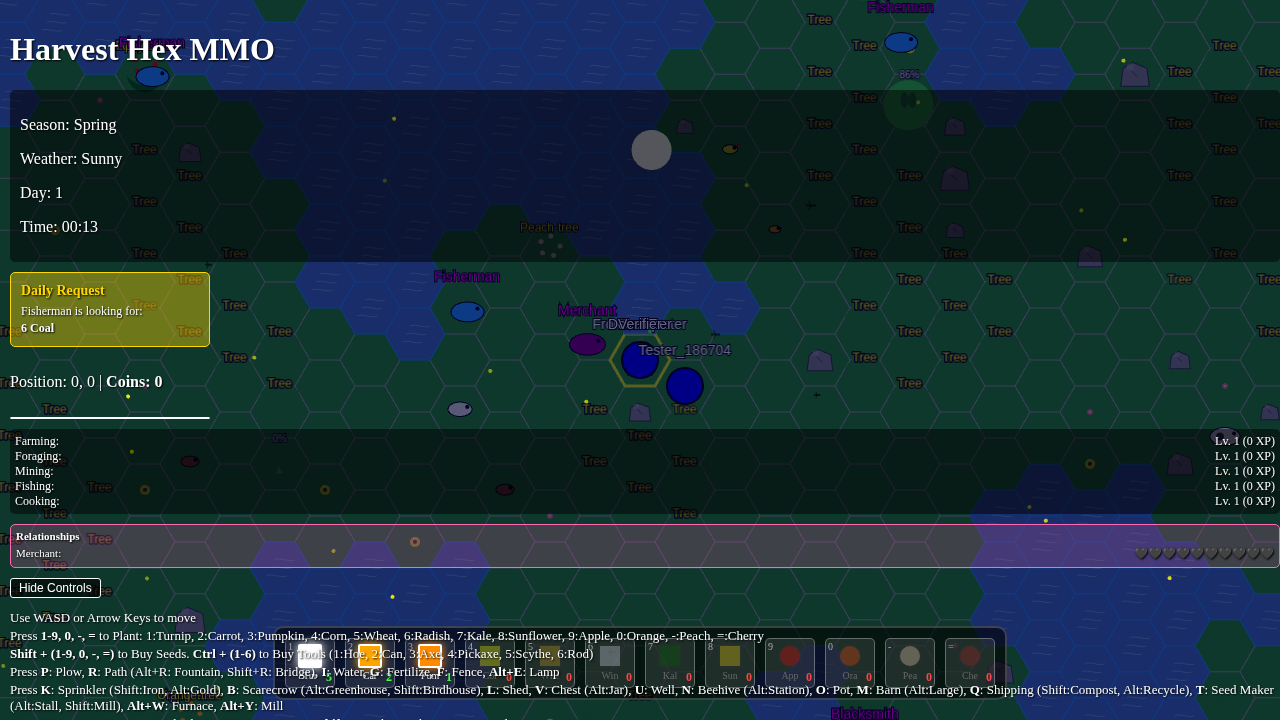
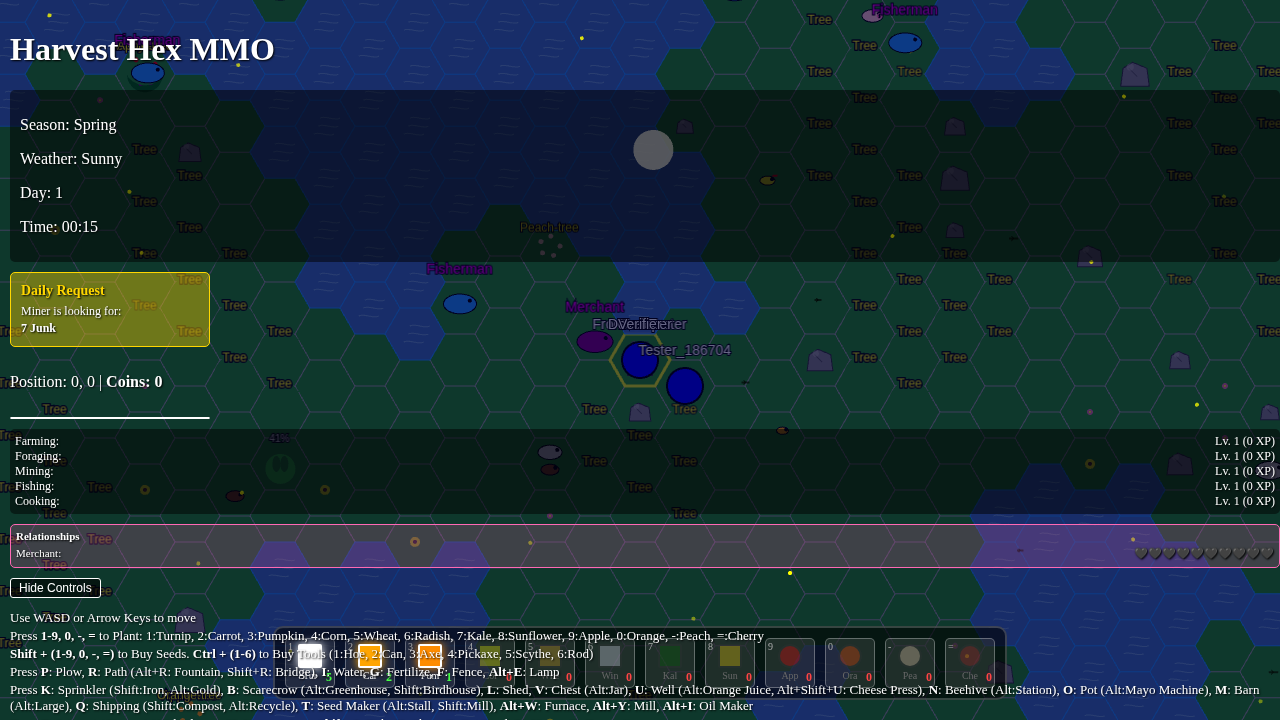
Implement Artisan Machines and game balance fixes (#70)

diff --git a/server/src/index.ts b/server/src/index.ts
@@ -510,12 +510,12 @@ io.on('connection', (socket) => {
         const entities = world.getEntitiesAt(pos.q, pos.r);
         const plant = entities.find(e => e.type === 'plant') as Plant | undefined;
         if (plant) {
-          if (plant.species === 'apple-tree' || plant.species === 'orange-tree' || plant.species === 'peach-tree' || plant.species === 'cherry-tree') {
+          if (plant.species === 'tree' || plant.species === 'apple-tree' || plant.species === 'orange-tree' || plant.species === 'peach-tree' || plant.species === 'cherry-tree') {
               if (!hasScythe) notify(socket.id, `Use 'E' to gather fruit from mature trees. Use an axe to cut them down.`, 'info');
               return;
           }
-          if (plant.species === 'berry-bush') {
-            if (!hasScythe) notify(socket.id, "Use 'E' to gather berries from mature bushes. Use an axe to clear it.", 'info');
+          if (plant.species === 'berry-bush' || plant.species === 'wood-stick') {
+            if (!hasScythe && plant.species === 'berry-bush') notify(socket.id, "Use 'E' to gather berries from mature bushes. Use an axe to clear it.", 'info');
             return;
           }
 
@@ -1266,6 +1266,82 @@ io.on('connection', (socket) => {
           return;
       }
 
+      if (building && building.species === 'oil-maker') {
+          if ((player.inventory['truffle'] || 0) > 0) {
+              player.inventory['truffle']--;
+              player.inventory['oil'] = (player.inventory['oil'] || 0) + 1;
+              socket.emit('entityUpdate', player);
+              notify(socket.id, "Processed truffle into oil!", 'success');
+          } else {
+              notify(socket.id, "You need a truffle to make oil!", 'info');
+          }
+          return;
+      }
+
+      if (building && building.species === 'cheese-press') {
+          const milk = player.inventory['milk'] || 0;
+          const largeMilk = player.inventory['large-milk'] || 0;
+          const goatMilk = player.inventory['goat-milk'] || 0;
+          const largeGoatMilk = player.inventory['large-goat-milk'] || 0;
+
+          if (largeGoatMilk > 0) {
+              player.inventory['large-goat-milk']--;
+              player.inventory['goat-cheese'] = (player.inventory['goat-cheese'] || 0) + 2;
+              socket.emit('entityUpdate', player);
+              notify(socket.id, "Pressed large goat milk into 2 goat cheese!", 'success');
+          } else if (goatMilk > 0) {
+              player.inventory['goat-milk']--;
+              player.inventory['goat-cheese'] = (player.inventory['goat-cheese'] || 0) + 1;
+              socket.emit('entityUpdate', player);
+              notify(socket.id, "Pressed goat milk into goat cheese!", 'success');
+          } else if (largeMilk > 0) {
+              player.inventory['large-milk']--;
+              player.inventory['cheese'] = (player.inventory['cheese'] || 0) + 2;
+              socket.emit('entityUpdate', player);
+              notify(socket.id, "Pressed large milk into 2 cheese!", 'success');
+          } else if (milk > 0) {
+              player.inventory['milk']--;
+              player.inventory['cheese'] = (player.inventory['cheese'] || 0) + 1;
+              socket.emit('entityUpdate', player);
+              notify(socket.id, "Pressed milk into cheese!", 'success');
+          } else {
+              notify(socket.id, "You need milk or goat milk to make cheese!", 'info');
+          }
+          return;
+      }
+
+      if (building && building.species === 'mayonnaise-machine') {
+          const egg = player.inventory['egg'] || 0;
+          const goldenEgg = player.inventory['golden-egg'] || 0;
+          const duckEgg = player.inventory['duck-egg'] || 0;
+          const goldenDuckEgg = player.inventory['golden-duck-egg'] || 0;
+
+          if (goldenDuckEgg > 0) {
+              player.inventory['golden-duck-egg']--;
+              player.inventory['duck-mayonnaise'] = (player.inventory['duck-mayonnaise'] || 0) + 2;
+              socket.emit('entityUpdate', player);
+              notify(socket.id, "Processed golden duck egg into 2 duck mayonnaise!", 'success');
+          } else if (duckEgg > 0) {
+              player.inventory['duck-egg']--;
+              player.inventory['duck-mayonnaise'] = (player.inventory['duck-mayonnaise'] || 0) + 1;
+              socket.emit('entityUpdate', player);
+              notify(socket.id, "Processed duck egg into duck mayonnaise!", 'success');
+          } else if (goldenEgg > 0) {
+              player.inventory['golden-egg']--;
+              player.inventory['mayonnaise'] = (player.inventory['mayonnaise'] || 0) + 2;
+              socket.emit('entityUpdate', player);
+              notify(socket.id, "Processed golden egg into 2 mayonnaise!", 'success');
+          } else if (egg > 0) {
+              player.inventory['egg']--;
+              player.inventory['mayonnaise'] = (player.inventory['mayonnaise'] || 0) + 1;
+              socket.emit('entityUpdate', player);
+              notify(socket.id, "Processed egg into mayonnaise!", 'success');
+          } else {
+              notify(socket.id, "You need eggs to make mayonnaise!", 'info');
+          }
+          return;
+      }
+
       if (building && building.species === 'stall') {
           const isOwner = building.ownerId === player.id;
           const buildingInv = building.inventory || {};
@@ -1416,7 +1492,9 @@ io.on('connection', (socket) => {
 
       if (building && building.species === 'shipping-bin') {
           let earned = 0;
+          const resourceItems = ['wood', 'stone', 'junk', 'coal', 'iron-ore', 'gold-ore', 'iron-bar', 'gold-bar', 'amethyst', 'topaz', 'emerald', 'ruby', 'diamond', 'compost-fertilizer', 'ancient-coin', 'geode', 'rusty-cog', 'ancient-statue', 'old-tablet'];
           Object.entries(ITEM_PRICES).forEach(([item, price]) => {
+              if (resourceItems.includes(item)) return;
               const count = player.inventory[item] || 0;
               if (count > 0) {
                   earned += Math.floor(count * price * 0.8);

diff --git a/client/src/App.tsx b/client/src/App.tsx
@@ -320,14 +320,17 @@ function App() {
           }
           break;
         case 'KeyU':
-          if (altKey) socket.emit('cook', 'orange-juice');
-          else socket.emit('build_building', 'well');
+          if (altKey) {
+            if (shiftKey) socket.emit('build_building', 'cheese-press');
+            else socket.emit('cook', 'orange-juice');
+          } else socket.emit('build_building', 'well');
           break;
         case 'KeyW':
           if (altKey) socket.emit('build_building', 'furnace');
           break;
         case 'KeyI':
-          socket.emit('water');
+          if (altKey) socket.emit('build_building', 'oil-maker');
+          else socket.emit('water');
           break;
         case 'KeyE':
           if (altKey) socket.emit('build_building', 'lamp');
@@ -352,7 +355,8 @@ function App() {
           else socket.emit('build_building', 'beehive');
           break;
         case 'KeyO':
-          socket.emit('build_building', 'cooking-pot');
+          if (altKey) socket.emit('build_building', 'mayonnaise-machine');
+          else socket.emit('build_building', 'cooking-pot');
           break;
         case 'KeyM':
           if (altKey) socket.emit('build_building', 'large-barn');
@@ -428,7 +432,7 @@ function App() {
         tools: { name: 'Tools/Kits', items: [] }
     };
 
-    const cropsItems = ['turnip', 'carrot', 'pumpkin', 'corn', 'wheat', 'sunflower', 'kale', 'apple', 'orange', 'peach', 'cherry', 'berry', 'mushroom', 'flower', 'fish', 'bass', 'trout', 'salmon', 'ghost-fish', 'golden-hexfish', 'salad', 'mushroom-soup', 'berry-tart', 'apple-pie', 'pumpkin-soup', 'corn-chowder', 'grilled-fish', 'miners-stew', 'veggie-platter', 'coal-grilled-fish', 'fruit-salad', 'mushroom-risotto', 'corn-bread', 'fish-stew', 'fruity-sorbet', 'hearty-stew', 'seafood-platter', 'honey-glazed-carrots', 'goat-cheese-salad', 'duck-egg-mayo', 'berry-smoothie', 'pumpkin-pie', 'apple-cider', 'orange-juice', 'peach-cobbler', 'cherry-pie', 'fruit-medley', 'salmon-dinner', 'ghost-pasta', 'trout-soup', 'apple-jam', 'orange-jam', 'berry-jam', 'peach-jam', 'cherry-jam', 'bread', 'pancakes', 'tortilla'];
+    const cropsItems = ['turnip', 'carrot', 'pumpkin', 'corn', 'wheat', 'sunflower', 'kale', 'apple', 'orange', 'peach', 'cherry', 'berry', 'mushroom', 'flower', 'fish', 'bass', 'trout', 'salmon', 'ghost-fish', 'golden-hexfish', 'salad', 'mushroom-soup', 'berry-tart', 'apple-pie', 'pumpkin-soup', 'corn-chowder', 'grilled-fish', 'miners-stew', 'veggie-platter', 'coal-grilled-fish', 'fruit-salad', 'mushroom-risotto', 'corn-bread', 'fish-stew', 'fruity-sorbet', 'hearty-stew', 'seafood-platter', 'honey-glazed-carrots', 'goat-cheese-salad', 'duck-egg-mayo', 'berry-smoothie', 'pumpkin-pie', 'apple-cider', 'orange-juice', 'peach-cobbler', 'cherry-pie', 'fruit-medley', 'salmon-dinner', 'ghost-pasta', 'trout-soup', 'apple-jam', 'orange-jam', 'berry-jam', 'peach-jam', 'cherry-jam', 'bread', 'pancakes', 'tortilla', 'oil', 'cheese', 'mayonnaise', 'goat-cheese', 'duck-mayonnaise'];
     const resourcesItems = ['wood', 'stone', 'junk', 'iron-ore', 'gold-ore', 'coal', 'iron-bar', 'gold-bar', 'amethyst', 'topaz', 'emerald', 'ruby', 'diamond', 'compost-fertilizer', 'ancient-coin', 'geode', 'rusty-cog', 'ancient-statue', 'old-tablet'];
     const processedItems = ['flour', 'cornmeal'];
     const productsItems = ['milk', 'wool', 'egg', 'truffle', 'honey', 'wildflower-honey', 'sunflower-honey', 'goat-milk', 'duck-egg', 'large-milk', 'golden-egg', 'golden-wool', 'large-goat-milk', 'golden-duck-egg'];
@@ -634,7 +638,7 @@ function App() {
             <p style={{ margin: '2px 0' }}>Press <b>1-9, 0, -, =</b> to Plant: 1:Turnip, 2:Carrot, 3:Pumpkin, 4:Corn, 5:Wheat, 6:Radish, 7:Kale, 8:Sunflower, 9:Apple, 0:Orange, -:Peach, =:Cherry</p>
             <p style={{ margin: '2px 0' }}><b>Shift + (1-9, 0, -, =)</b> to Buy Seeds. <b>Ctrl + (1-6)</b> to Buy Tools (1:Hoe, 2:Can, 3:Axe, 4:Pickaxe, 5:Scythe, 6:Rod)</p>
             <p style={{ margin: '2px 0' }}>Press <b>P</b>: Plow, <b>R</b>: Path (Alt+R: Fountain, Shift+R: Bridge), <b>I</b>: Water, <b>G</b>: Fertilize, <b>F</b>: Fence, <b>Alt+E</b>: Lamp</p>
-            <p style={{ margin: '2px 0' }}>Press <b>K</b>: Sprinkler (Shift:Iron, Alt:Gold), <b>B</b>: Scarecrow (Alt:Greenhouse, Shift:Birdhouse), <b>L</b>: Shed, <b>V</b>: Chest (Alt:Jar), <b>U</b>: Well, <b>N</b>: Beehive (Alt:Station), <b>O</b>: Pot, <b>M</b>: Barn (Alt:Large), <b>Q</b>: Shipping (Shift:Compost, Alt:Recycle), <b>T</b>: Seed Maker (Alt:Stall, Shift:Mill), <b>Alt+W</b>: Furnace, <b>Alt+Y</b>: Mill</p>
+            <p style={{ margin: '2px 0' }}>Press <b>K</b>: Sprinkler (Shift:Iron, Alt:Gold), <b>B</b>: Scarecrow (Alt:Greenhouse, Shift:Birdhouse), <b>L</b>: Shed, <b>V</b>: Chest (Alt:Jar), <b>U</b>: Well (Alt:Orange Juice, Alt+Shift+U: Cheese Press), <b>N</b>: Beehive (Alt:Station), <b>O</b>: Pot (Alt:Mayo Machine), <b>M</b>: Barn (Alt:Large), <b>Q</b>: Shipping (Shift:Compost, Alt:Recycle), <b>T</b>: Seed Maker (Alt:Stall, Shift:Mill), <b>Alt+W</b>: Furnace, <b>Alt+Y</b>: Mill, <b>Alt+I</b>: Oil Maker</p>
             <p style={{ margin: '2px 0' }}>Press <b>E</b>: Interact / Harvest / Pick Flower, <b>H</b>: Harvest Area, <b>Shift+J</b>: Fish, <b>X</b>: Clear, <b>C</b>: Eat Food, <b>Y</b>: Home, <b>Z</b>: Dynamite</p>
             <p style={{ margin: '2px 0' }}>Type <b>/gift [npc] [item]</b> to give a gift | Find Ancient Shrines for blessings!</p>
             <p style={{ margin: '2px 0' }}>Cooking (Alt + 1-0, -, =, [, ], S, D, F, G, H, J, K, L, P, U): 29 recipes available. See Cooking Menu for details.</p>

diff --git a/client/src/renderers/HexRenderer.ts b/client/src/renderers/HexRenderer.ts
@@ -726,7 +726,62 @@ export class HexRenderer {
         this.drawMill(x, y);
     } else if (entity.species === 'bridge') {
         this.drawBridge(x, y, entity.pos);
+    } else if (entity.species === 'oil-maker') {
+        this.drawOilMaker(x, y);
+    } else if (entity.species === 'cheese-press') {
+        this.drawCheesePress(x, y);
+    } else if (entity.species === 'mayonnaise-machine') {
+        this.drawMayonnaiseMachine(x, y);
     }
+  }
+
+  drawOilMaker(x: number, y: number) {
+      // Body
+      this.graphics.rect(x - 10, y - 10, 20, 25);
+      this.graphics.fill({ color: 0x8B4513, alpha: 1 });
+      this.graphics.stroke({ color: 0x3D2B1F, width: 2 });
+
+      // Press arm
+      const armPos = Math.sin(Date.now() / 400) * 5;
+      this.graphics.rect(x - 4, y - 15 + armPos, 8, 10);
+      this.graphics.fill({ color: 0x808080, alpha: 1 });
+
+      // Drip/Bucket
+      this.graphics.circle(x, y + 15, 6);
+      this.graphics.fill({ color: 0xDAA520, alpha: 0.8 }); // Oil color
+  }
+
+  drawCheesePress(x: number, y: number) {
+      // Wooden frame
+      this.graphics.rect(x - 12, y - 5, 24, 20);
+      this.graphics.fill({ color: 0xDEB887, alpha: 1 });
+      this.graphics.stroke({ color: 0x8B4513, width: 2 });
+
+      // Press screw
+      this.graphics.rect(x - 2, y - 15, 4, 15);
+      this.graphics.fill({ color: 0x555555, alpha: 1 });
+
+      // Cheese inside
+      const squeeze = Math.sin(Date.now() / 600) * 2;
+      this.graphics.rect(x - 8, y + 5 + squeeze, 16, 10 - squeeze);
+      this.graphics.fill({ color: 0xFFFF00, alpha: 1 });
+  }
+
+  drawMayonnaiseMachine(x: number, y: number) {
+      // Glass jar/mixer body
+      this.graphics.circle(x, y, 12);
+      this.graphics.fill({ color: 0xADD8E6, alpha: 0.4 });
+      this.graphics.stroke({ color: 0xFFFFFF, width: 2 });
+
+      // Mayo inside
+      this.graphics.circle(x, y + 2, 8);
+      this.graphics.fill({ color: 0xFFFDD0, alpha: 0.9 }); // Cream color
+
+      // Mixer whisk (animated)
+      const angle = Date.now() / 100;
+      this.graphics.moveTo(x, y - 15);
+      this.graphics.lineTo(x + Math.cos(angle) * 8, y + Math.sin(angle) * 8);
+      this.graphics.stroke({ color: 0xCCCCCC, width: 2 });
   }
 
   drawBridge(x: number, y: number, pos: Position) {

diff --git a/common/src/types.ts b/common/src/types.ts
@@ -27,6 +27,9 @@ export const BUILDING_COSTS: Record<string, { wood: number; stone: number }> = {
   'furnace': { wood: 0, stone: 25 },
   'mill': { wood: 15, stone: 10 },
   'bridge': { wood: 10, stone: 2 },
+  'oil-maker': { wood: 20, stone: 10 },
+  'cheese-press': { wood: 15, stone: 15 },
+  'mayonnaise-machine': { wood: 10, stone: 20 },
 };
 
 export const ITEM_PRICES: Record<string, number> = {
@@ -34,6 +37,7 @@ export const ITEM_PRICES: Record<string, number> = {
   'winter-radish': 40, 'sunflower': 45, 'kale': 15, 'apple': 15, 'orange': 20, 'peach': 25, 'cherry': 22, 'berry': 12, 'mushroom': 18,
   'flower': 15,
   'apple-jam': 50, 'orange-jam': 65, 'berry-jam': 45, 'peach-jam': 60, 'cherry-jam': 55,
+  'oil': 120, 'cheese': 100, 'mayonnaise': 50, 'goat-cheese': 150, 'duck-mayonnaise': 80,
   'milk': 20, 'wool': 30, 'egg': 10, 'truffle': 60, 'goat-milk': 25, 'duck-egg': 15,
   'fish': 40, 'honey': 30, 'wildflower-honey': 30, 'sunflower-honey': 60, 'coal': 15,
   'wood': 5, 'stone': 5, 'junk': 2, 'iron-ore': 80, 'gold-ore': 400,
@@ -117,6 +121,7 @@ export const FOOD_VALUES: Record<string, number> = {
   'pumpkin-pie': 85,
   'apple-cider': 60,
   'orange-juice': 50,
+  'oil': 20, 'cheese': 50, 'mayonnaise': 30, 'goat-cheese': 60, 'duck-mayonnaise': 40,
   'bread': 50, 'pancakes': 80, 'tortilla': 50,
   'apple-jam': 35,
   'orange-jam': 45,
@@ -162,8 +167,8 @@ export const RECIPES: Record<string, Record<string, number>> = {
   'hearty-stew': { 'winter-radish': 1, 'carrot': 1, 'mushroom': 1, 'wood': 1 },
   'seafood-platter': { 'fish': 2, 'corn': 1, 'junk': 1 },
   'honey-glazed-carrots': { 'carrot': 2, 'honey': 1 },
-  'goat-cheese-salad': { 'turnip': 1, 'goat-milk': 1 },
-  'duck-egg-mayo': { 'duck-egg': 1, 'sunflower': 1 },
+  'goat-cheese-salad': { 'turnip': 1, 'goat-cheese': 1 },
+  'duck-egg-mayo': { 'duck-mayonnaise': 1, 'sunflower': 1 },
   'berry-smoothie': { 'berry': 2, 'milk': 1 },
   'pumpkin-pie': { 'pumpkin': 1, 'wheat': 1, 'egg': 1 },
   'apple-cider': { 'apple': 3, 'honey': 1 },

diff --git a/hexfarm.md b/hexfarm.md
@@ -125,7 +125,10 @@ Using **WASD** or **Arrow Keys**, players navigate the grid. The camera follows 
    - **Alt+V**: Preserves Jar (8 Wood, 4 Stone) - Converts fruit into Jam for higher stamina and sale value.
    - **Alt+W**: Furnace (25 Stone) - Smelts ores into bars.
    - **Shift+R**: Bridge (10 Wood, 2 Stone) - Built over water to allow passage for players and animals.
-8. **Interacting:** Press **E** to interact with animals, harvest fruit/berries, pick wild flowers, use buildings, talk to NPCs, or enter Caves. Use **Shift+E** to explicitly withdraw all items from Chests and Sheds. Press **J** to open your **Explorer's Journal**, and **Shift+J** to fish. **Shift + 1-0, -, =** to buy seeds. **Ctrl + 1-6** to buy tools (1: Hoe, 2: Watering Can, 3: Axe, 4: Pickaxe, 5: Scythe, 6: Fishing Rod).
+   - **Alt+I**: Oil Maker (20 Wood, 10 Stone) - Processes truffles into oil.
+   - **Alt+Shift+U**: Cheese Press (15 Wood, 15 Stone) - Processes milk and goat milk into cheese.
+   - **Alt+O**: Mayonnaise Machine (10 Wood, 20 Stone) - Processes eggs and duck eggs into mayonnaise.
+8. **Interacting:** Press **E** to interact with animals, harvest fruit/berries, pick wild flowers, use buildings (including Artisan Machines), talk to NPCs, or enter Caves. Use **Shift+E** to explicitly withdraw all items from Chests and Sheds. Press **J** to open your **Explorer's Journal**, and **Shift+J** to fish. **Shift + 1-0, -, =** to buy seeds. **Ctrl + 1-6** to buy tools (1: Hoe, 2: Watering Can, 3: Axe, 4: Pickaxe, 5: Scythe, 6: Fishing Rod).
    - **Merchant:** Stand near the Merchant (moves around (0,0)) and press **E** to sell crops and products.
    - **Blacksmith:** Stand near the Blacksmith (moves around (5,5)) and press **E** to upgrade tools or process Geodes. To process a Geode, interact with the Blacksmith while having a Geode in your inventory and at least 20 coins.
    - **Fisherman:** Stand near a Fisherman and press **E** to sell fish for 50 coins.
@@ -287,6 +290,8 @@ The project is organized as a **TypeScript Monorepo**:
 - [x] **Exploration Expansion:** Implemented Bridges to allow passage over water.
 - [x] **Storage UX:** Added explicit withdrawal from storage using Shift+E.
 - [x] **Nature Polish:** Fixed floor entity overlap during flower propagation.
+- [x] **Artisan Machines:** Added Oil Maker, Cheese Press, and Mayonnaise Machine for advanced product processing.
+- [x] **Economy Polish:** Fixed `shipping-bin` to prevent accidental resource sales and prevented `scythe` area harvesting of trees.
 
 ### Long Term
 - [ ] **Detailed Pixel Art:** Full replacement of PIXI shapes with sprites.
